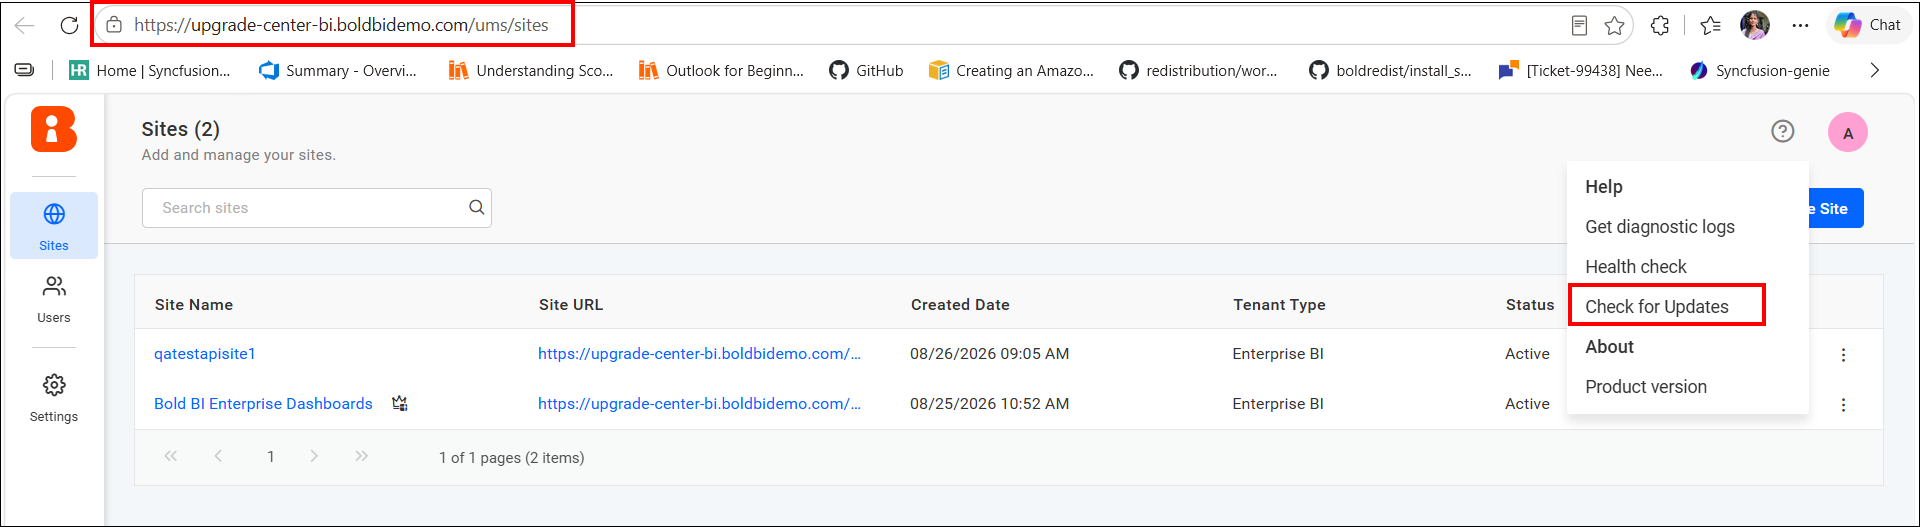
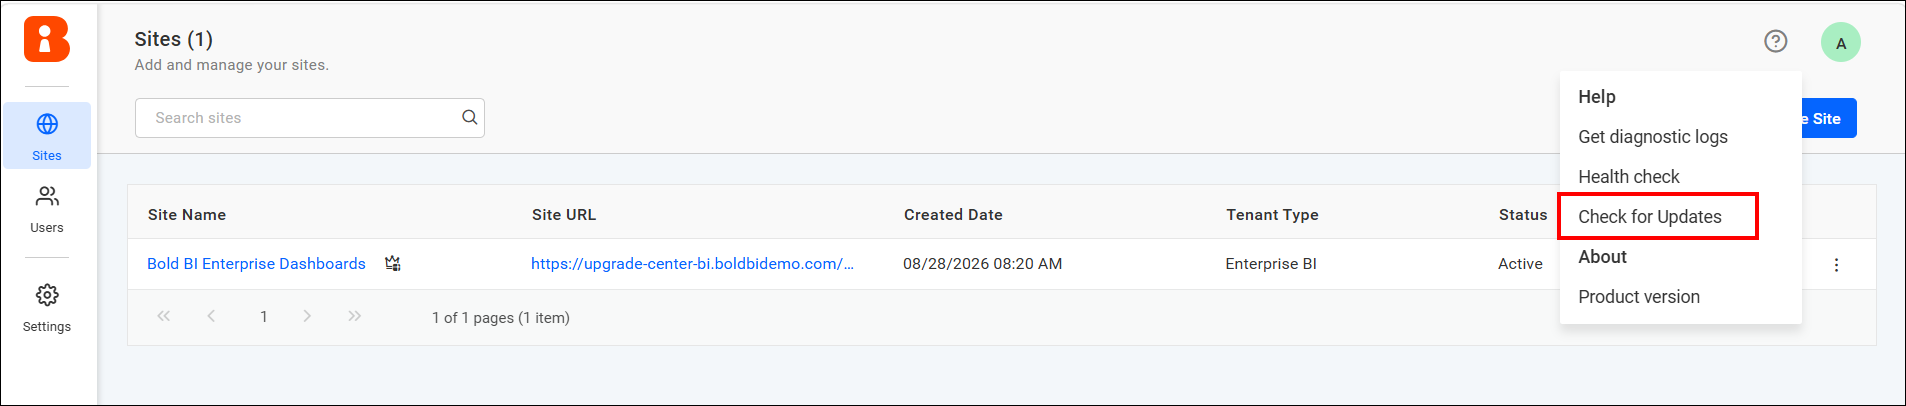
updated documentation

diff --git a/docs/upgrade-center-deployment.md b/docs/upgrade-center-deployment.md
@@ -80,25 +80,51 @@ kubectl apply -f ingressroute-upgrade-center.yaml
 Confirm that the Upgrade Center pod is running:
 
 ```sh
-kubectl get pods -n bold-services | grep upgrade-center
+kubectl get pods -n bold-services -l app.kubernetes.io/name=boldbi-upgrade-center
 ```
 
 ### Step 6 — Access the Upgrade Center
 
 See [Access the Upgrade Center from Bold BI](#access-the-upgrade-center-from-bold-bi) below.
 
----
 
 ## Deploy Upgrade Center using Helm
 
-### Prerequisites
+#### Get Repo Info
 
-- The Helm chart from this repository must be configured for your cluster.
-- You must have the appropriate `values.yaml` overlay for your cluster (e.g., `aks-values.yaml`, `eks-values.yaml`, `gke-values.yaml`).
+1. Add the Bold BI helm repository
+
+    ```console
+    helm repo add boldbi https://boldbi.github.io/boldbi-server-in-kubernetes
+    helm repo update
+    ```
+
+2. View charts in repo
+
+    ```console
+    helm search repo boldbi
+
+    NAME            CHART VERSION   APP VERSION     DESCRIPTION
+    boldbi/boldbi   16.2.5           16.2.5         Embed powerful analytics inside your apps and t...
+    ```
+
+#### Install Chart
+
+You can either:
+
+* Use a latest `values.yaml` file downloaded from the Bold BI repository for a fresh deployment.
+* Use the existing `values.yaml` file from your current deployment and update it with the Upgrade Center configuration.
+
+Download the appropriate `values.yaml` file based on your Kubernetes platform:
+
+* For `GKE` please download the values.yaml file [here](https://raw.githubusercontent.com/boldbi/boldbi-server-in-kubernetes/main/helm/custom-values/gke-values.yaml).
+* For `EKS` please download the values.yaml file [here](https://raw.githubusercontent.com/boldbi/boldbi-server-in-kubernetes/main/helm/custom-values/eks-values.yaml).
+* For `AKS` please download the values.yaml file [here](https://raw.githubusercontent.com/boldbi/boldbi-server-in-kubernetes/main/helm/custom-values/aks-values.yaml).
+* For `OKE` please download the values.yaml file [here](https://raw.githubusercontent.com/boldbi/boldbi-server-in-kubernetes/main/helm/custom-values/oke-values.yaml).
+* For `ACK` please download the values.yaml file [here](https://github.com/boldbi/boldbi-server-in-kubernetes/blob/main/helm/custom-values/ack-values.yaml).
+
 
 > **Note:** Upgrade Center can be enabled during the initial Bold BI deployment or added to an existing one. Simply set `upgradeCenter.enabled: true` in your values file before running `helm install` or `helm upgrade`.
-
----
 
 ### Step 1 — Enable Upgrade Center in values.yaml
 
@@ -110,8 +136,6 @@ Open your cluster overlay file (for example, `helm/custom-values/aks-values.yaml
 upgradeCenter:
   enabled: true
 ```
-
----
 
 ### Step 2 — Configure admin credentials
 
@@ -141,7 +165,6 @@ upgradeCenter:
 | `upgradeCenter.resources.limits.cpu` | CPU limit for Upgrade Center pods. | `1` |
 | `upgradeCenter.resources.limits.memory` | Memory limit for Upgrade Center pods. | `1536Mi` |
 
----
 
 ### Step 3 — (Optional) Configure the Playwright runner
 
@@ -151,7 +174,7 @@ The Upgrade Center uses a Playwright-based runner to automate pre-upgrade valida
 upgradeCenter:
   enabled: true
   playwright:
-    image: ""                 # Leave empty to use the chart default, or provide a custom image reference
+    image: ""
     timeoutSeconds: 9000      # Maximum duration (seconds) for a single Playwright job (default: 2.5 hours)
     resources:
       requests:
@@ -190,7 +213,7 @@ helm upgrade --install boldbi boldbi/boldbi \
 Check that all Upgrade Center pods are running:
 
 ```sh
-kubectl get pods -n bold-services -l app=boldbi-upgrade-center
+kubectl get pods -n bold-services -l app.kubernetes.io/name=boldbi-upgrade-center
 ```
 
 You should see the pod in `Running` state:
@@ -225,3 +248,9 @@ Once all services are running and the ingress is active:
 4. The Upgrade Center will display the currently installed version and any available upgrades. You can initiate an upgrade directly from this interface.
 
     ![Upgrade](/docs/images/upgrade.png)
+
+    ![confirm-upgrade](/docs/images/start-upgrade.png)
+
+## See also
+
+- **[Upgrade Center User Guide](https://help.boldbi.com/deploying-bold-bi/upgrade-center/)** — Learn more about the Upgrade Center feature, the in-application UX, supported upgrade flows, and prerequisites from within Bold BI.
